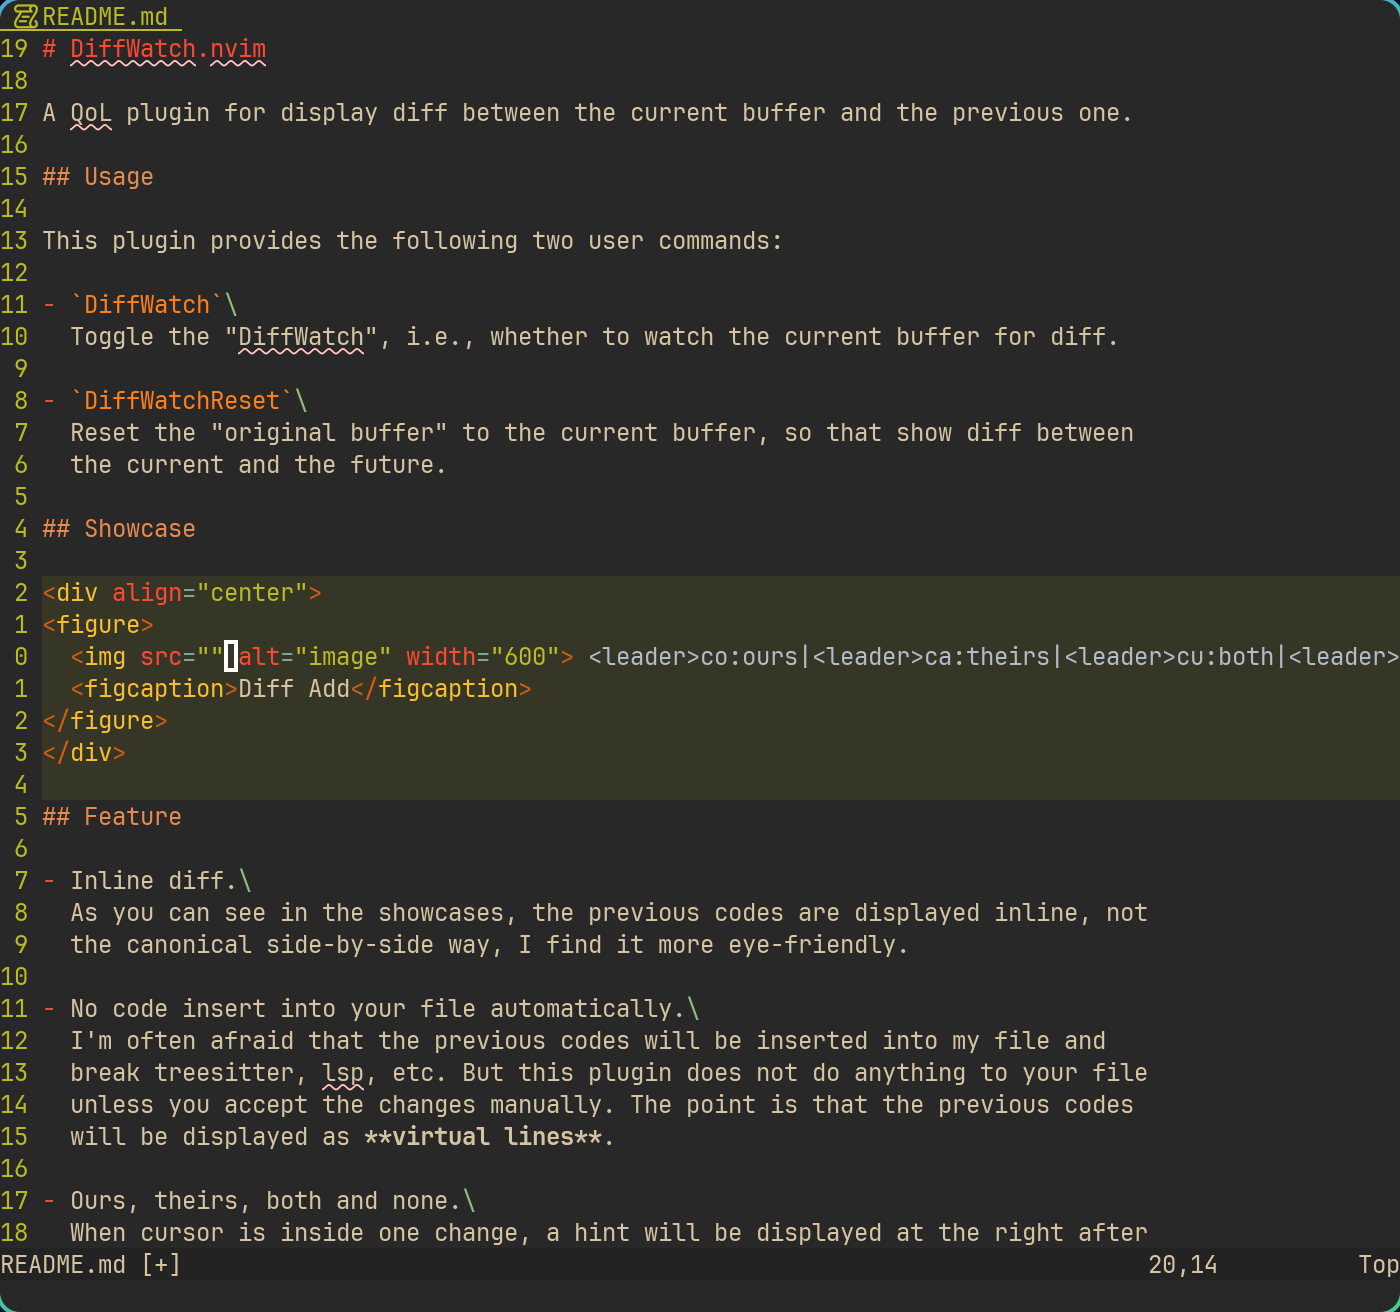
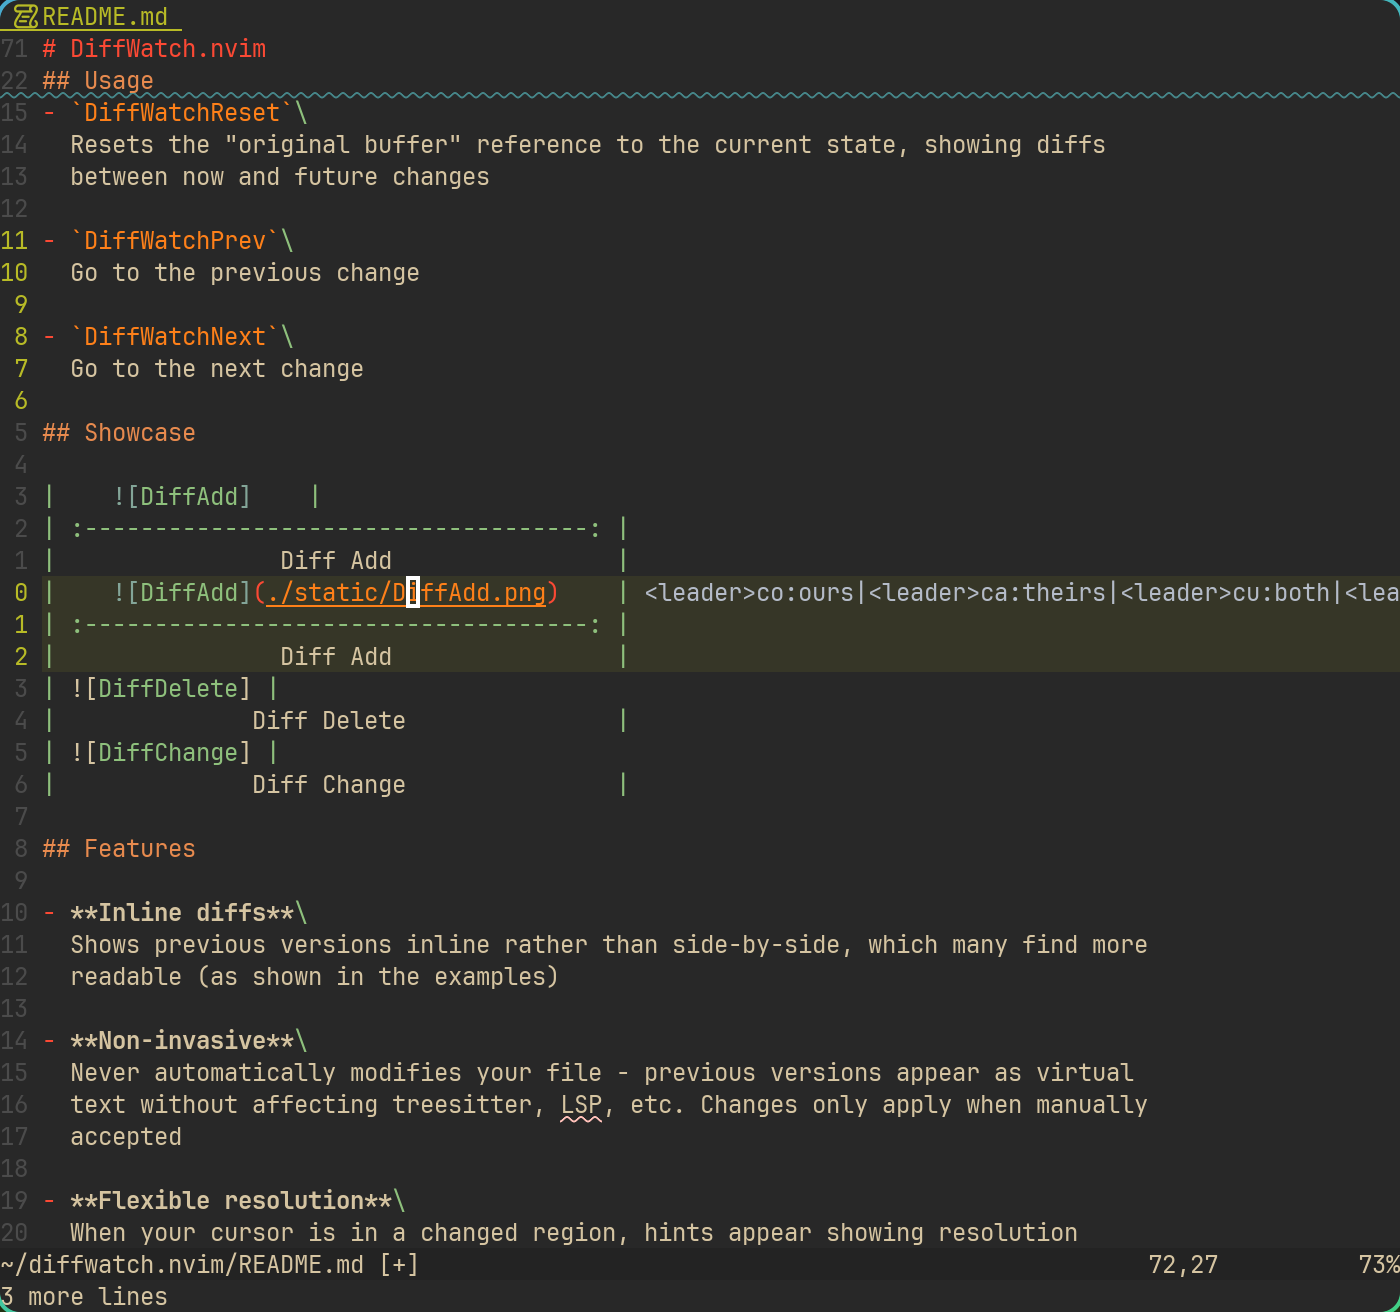
chores

diff --git a/README.md b/README.md
@@ -3,9 +3,53 @@
 A QoL plugin that displays inline diffs between the previous and current buffer
 state, with intuitive navigation and change resolution.
 
+## Installation
+
+With `lazy.nvim`:
+
+```lua
+return {
+    {
+        "yuukibarns/diffwatch.nvim",
+        keys = {
+            { "<leader>cw", "<Cmd>DiffWatchToggle<CR>", desc = "Diff Watch Toggle" },
+            { "<leader>cr", "<Cmd>DiffWatchReset<CR>",  desc = "Diff Watch Reset" },
+            { "[w",         "<Cmd>DiffWatchPrev<CR>",   desc = "Diff Watch Prev" },
+            { "]w",         "<Cmd>DiffWatchNext<CR>",   desc = "Diff Watch Next" },
+        },
+        config = function()
+            require("diffwatch").setup({
+                -- Configuration goes here
+            })
+        end
+    },
+}
+```
+
+Default configuration:
+
+```lua
+local CONFIG = {
+    highlights = {
+        added = 'DiffWatchAdd',         -- Added lines
+        changed = 'DiffWatchChange',    -- Changed lines
+        removed = 'DiffWatchDelete',    -- Removed lines
+        modified = "DiffWatchModified", -- Modifed lines
+        hint = 'DiffWatchHint',         -- Hint text
+    },
+    mappings = {
+        ours = "<leader>co",
+        theirs = "<leader>ca",
+        both = "<leader>cu",
+        none = "<leader>cn",
+    },
+    hint_position = 'eol_right_align',
+}
+```
+
 ## Usage
 
-This plugin provides two commands:
+This plugin provides following commands:
 
 - `DiffWatch`\
   Toggles watching the current buffer for changes.
@@ -13,6 +57,12 @@ This plugin provides two commands:
 - `DiffWatchReset`\
   Resets the "original buffer" reference to the current state, showing diffs
   between now and future changes
+
+- `DiffWatchPrev`\
+  Go to the previous change
+
+- `DiffWatchNext`\
+  Go to the next change
 
 ## Showcase
 
@@ -37,7 +87,7 @@ This plugin provides two commands:
 
 - **Flexible resolution**\
   When your cursor is in a changed region, hints appear showing resolution
-  options, `<leader>co:ours | <leader>ca:theirs...`.
+  keymaps, `<leader>co:ours | <leader>ca:theirs...`.
 
   Available actions:
   - `ours`: Keep previous version
@@ -46,7 +96,8 @@ This plugin provides two commands:
   - `none`: Remove both
 
 - **Change navigation**\
-  Default keymaps `[w` and `]w` for jumping between changes
+  Provides user commands `DiffWatchPrev` and `DiffWatchNext` for jumping between
+  changes
 
 ## Why This Plugin?
 
